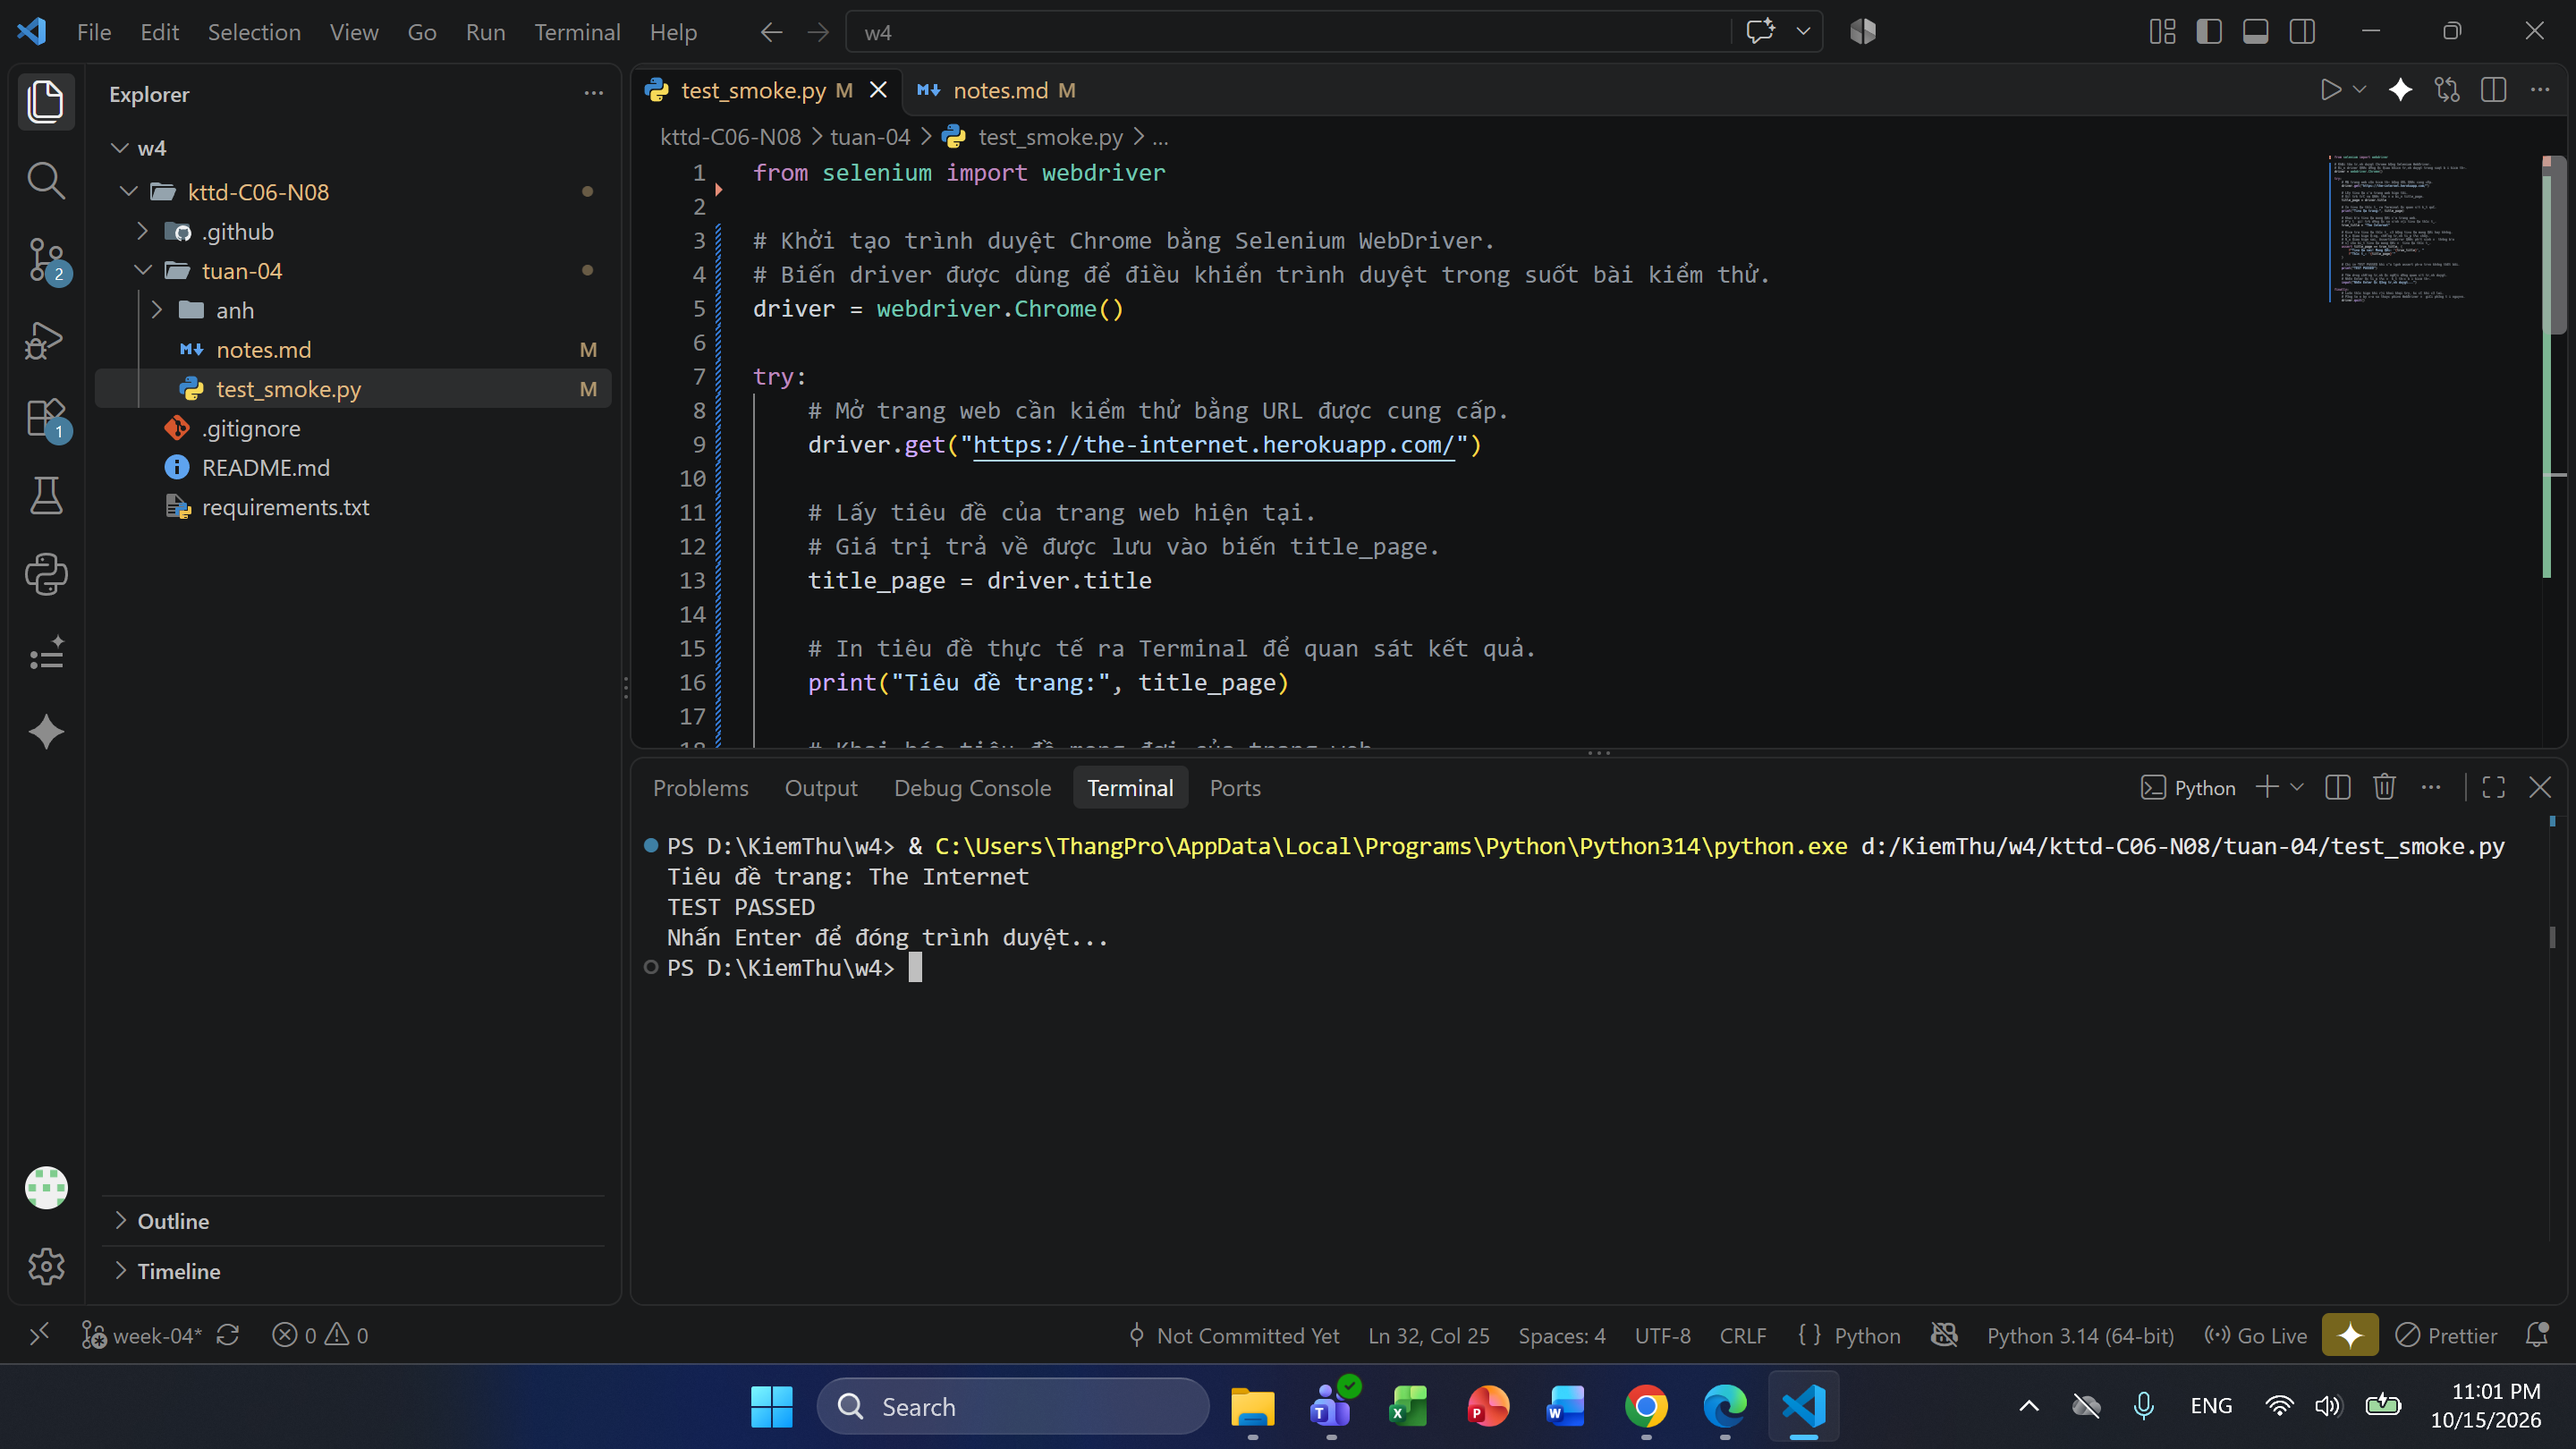
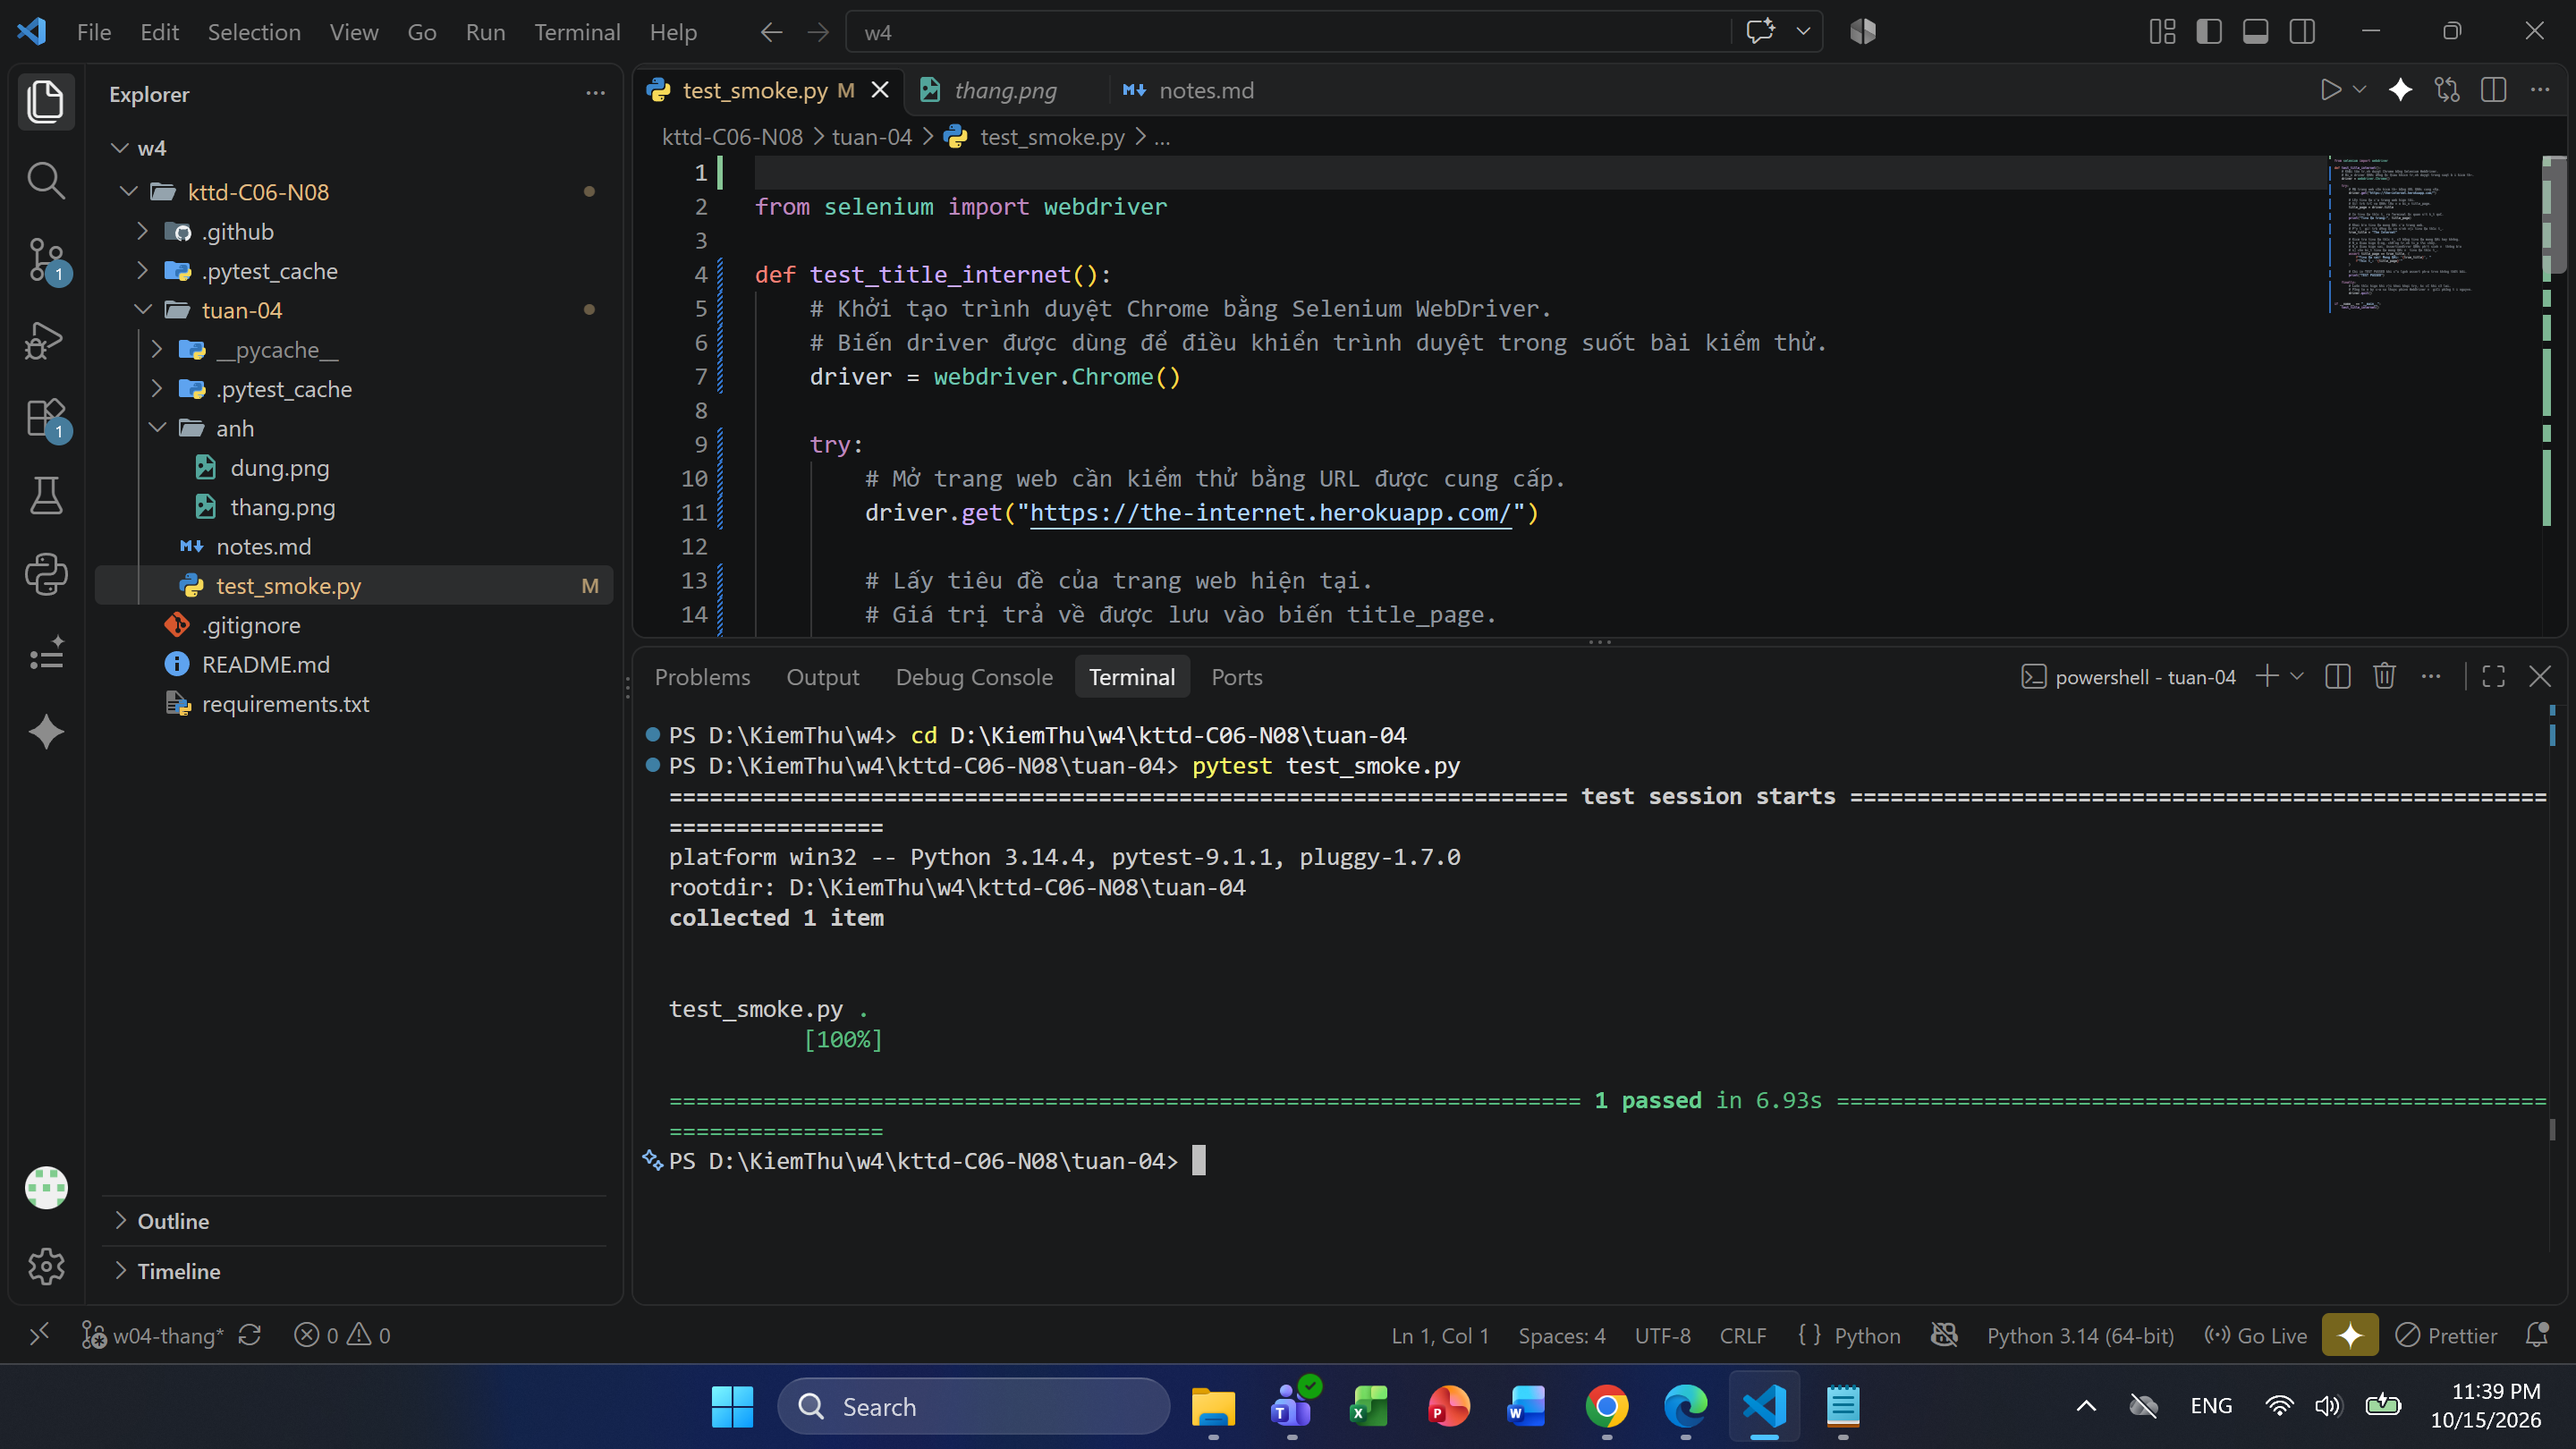
fix lan 5

diff --git a/tuan-04/test_smoke.py b/tuan-04/test_smoke.py
@@ -1,41 +1,43 @@
+
 from selenium import webdriver
 
-# Khởi tạo trình duyệt Chrome bằng Selenium WebDriver.
-# Biến driver được dùng để điều khiển trình duyệt trong suốt bài kiểm thử.
-driver = webdriver.Chrome()
+def test_title_internet():
+    # Khởi tạo trình duyệt Chrome bằng Selenium WebDriver.
+    # Biến driver được dùng để điều khiển trình duyệt trong suốt bài kiểm thử.
+    driver = webdriver.Chrome()
 
-try:
-    # Mở trang web cần kiểm thử bằng URL được cung cấp.
-    driver.get("https://the-internet.herokuapp.com/")
+    try:
+        # Mở trang web cần kiểm thử bằng URL được cung cấp.
+        driver.get("https://the-internet.herokuapp.com/")
 
-    # Lấy tiêu đề của trang web hiện tại.
-    # Giá trị trả về được lưu vào biến title_page.
-    title_page = driver.title
+        # Lấy tiêu đề của trang web hiện tại.
+        # Giá trị trả về được lưu vào biến title_page.
+        title_page = driver.title
 
-    # In tiêu đề thực tế ra Terminal để quan sát kết quả.
-    print("Tiêu đề trang:", title_page)
+        # In tiêu đề thực tế ra Terminal để quan sát kết quả.
+        print("Tiêu đề trang:", title_page)
 
-    # Khai báo tiêu đề mong đợi của trang web.
-    # Đây là giá trị dùng để so sánh với tiêu đề thực tế.
-    true_title = "The Internet"
+        # Khai báo tiêu đề mong đợi của trang web.
+        # Đây là giá trị dùng để so sánh với tiêu đề thực tế.
+        true_title = "The Internet"
 
-    # Kiểm tra tiêu đề thực tế có bằng tiêu đề mong đợi hay không.
-    # Nếu điều kiện đúng, chương trình tiếp tục chạy.
-    # Nếu điều kiện sai, AssertionError được phát sinh và thông báo
-    # sẽ cho biết tiêu đề mong đợi và tiêu đề thực tế.
-    assert title_page == true_title, (
-        f"Tiêu đề sai! Mong đợi: '{true_title}', "
-        f"Thực tế: '{title_page}'"
-    )
+        # Kiểm tra tiêu đề thực tế có bằng tiêu đề mong đợi hay không.
+        # Nếu điều kiện đúng, chương trình tiếp tục chạy.
+        # Nếu điều kiện sai, AssertionError được phát sinh và thông báo
+        # sẽ cho biết tiêu đề mong đợi và tiêu đề thực tế.
+        assert title_page == true_title, (
+            f"Tiêu đề sai! Mong đợi: '{true_title}', "
+            f"Thực tế: '{title_page}'"
+        )
 
-    # Chỉ in TEST PASSED khi câu lệnh assert phía trên không thất bại.
-    print("TEST PASSED")
+        # Chỉ in TEST PASSED khi câu lệnh assert phía trên không thất bại.
+        print("TEST PASSED")
 
-    # Tạm dừng chương trình để người dùng quan sát trình duyệt.
-    # Nhấn Enter để tiếp tục và kết thúc bài kiểm thử.
-    input("Nhấn Enter để đóng trình duyệt...")
+    finally:
+        # Luôn thực hiện khi rời khỏi khối try, kể cả khi có lỗi.
+        # Đóng toàn bộ cửa sổ thuộc phiên WebDriver và giải phóng tài nguyên.
+        driver.quit()
 
-finally:
-    # Luôn thực hiện khi rời khỏi khối try, kể cả khi có lỗi.
-    # Đóng toàn bộ cửa sổ thuộc phiên WebDriver và giải phóng tài nguyên.
-    driver.quit()
+
+if __name__ == "__main__":
+    test_title_internet()
